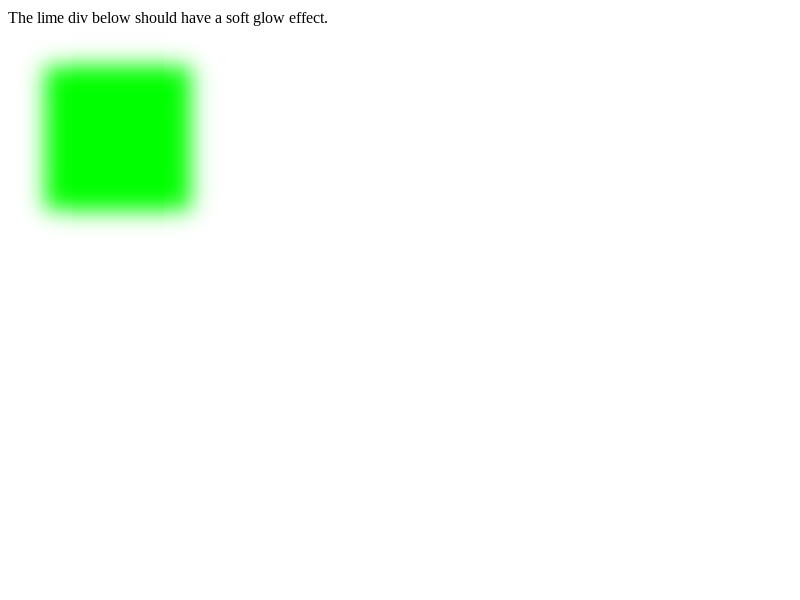
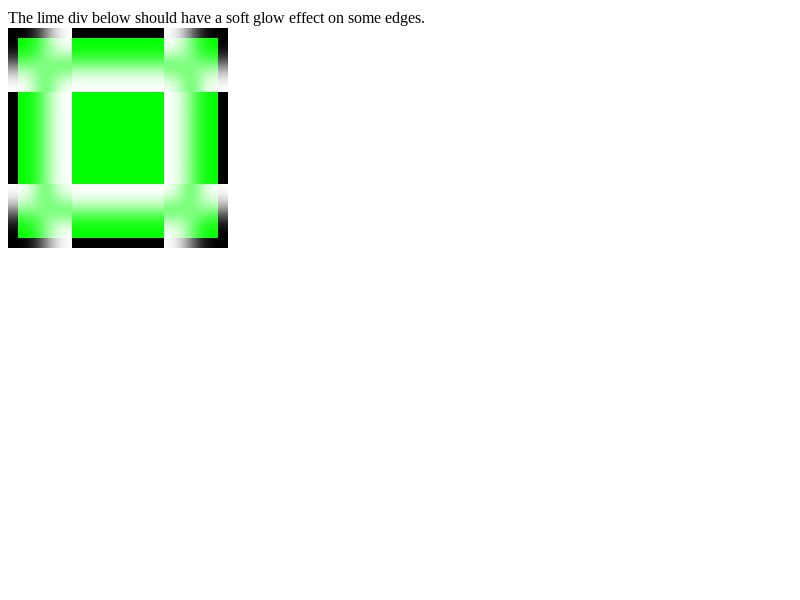
Keep mask bounds expanded to edges of div to fully mask dest_rect.
Mask execution closely follows background execution, which results in the
size of the mask being reduced to the exact size requested, rather than
filling out the dest_rect in BackgroundImageGeography::SetNoRepeatX and
::SetNoRepeatY. This CL puts the mask in the correct location, then
when we are creating the shader in image.cc, if the mask doesn't fill
out the dest_rect, decal tilemode is used to fill the rest with
transparency, which allows the mask to fill the full area.

Regarding the change to the fast/backgrounds/mask-composite.html test:
This change results in the original test failing, displaying the same
thing that it displays when using source-out. Based on my understanding
of how the 'copy' Porter-Duff keyword works, I believe this is correct
and that the test previously had an incorrect baseline because of this
bug. My understanding is that, if mask-composite is 'copy', then regardless
of the number of masks, only the first one will be displayed. The PD
definition of copy is that only the source mask is displayed, and since
this would be applied starting from the last two masks listed, moving up
to the first two, the end result is that only the first mask is displayed.
And, since this matches what happens when mask-composite:source-out is
used (and matches Edge and Firefox using 'subtract'), I just changed it
to a likely more commonly used keyword.

Bug: 917067
Commit-Queue: Mario Bianucci <mabian@microsoft.com>
[…]

Changed region(s): [[0.0, 0.03, 0.3125, 0.42], [0.4062, 0.0, 0.5312, 0.06]]

diff --git a/blink/web_tests/css3/masking/mask-not-clipped.html b/blink/web_tests/css3/masking/mask-not-clipped.html
@@ -1,0 +1,37 @@
+<!DOCTYPE html>
+<style>
+#mask {
+  width: 200px;
+  height: 200px;
+  background-color: red;
+  -webkit-mask-image: linear-gradient(black, black), linear-gradient(90deg, black, black);
+  -webkit-mask-size: 50% 100%, 100% 50%;
+  -webkit-mask-repeat: no-repeat;
+}
+#cover {
+  width: 100px;
+  height: 100px;
+  background-color: green;
+  position: absolute;
+  left: 0;
+  top: 0;
+}
+div {
+  display: inline-block;
+}
+</style>
+<p>There should be 2 green squares and a green rectangle below and no red.</p>
+<div style="position: absolute">
+  <div>
+    <div id="mask" style="-webkit-mask-composite: source-in;"></div>
+    <div id="cover"></div>
+  </div>
+  <div>
+    <div id="mask" style="-webkit-mask-composite: source-out;"></div>
+    <div id="cover" style="left: 204px;top:100px;"></div>
+  </div>
+  <div>
+    <div id="mask" style="-webkit-mask-composite: source-out; -webkit-mask-size: 50px; -webkit-mask-position: bottom right, top left;"></div>
+    <div id="cover" style="left: 558px; top:0px; height: 200px; width: 50px;"></div>
+  </div>
+</div>

diff --git a/blink/web_tests/fast/backgrounds/mask-composite.html b/blink/web_tests/fast/backgrounds/mask-composite.html
@@ -9,11 +9,11 @@
         -webkit-mask-position: top left, top right, bottom left, bottom right, top center, center right, bottom center, center left, center;
         -webkit-mask-origin: border;
         -webkit-mask-repeat: no-repeat, no-repeat, no-repeat, no-repeat, repeat-x, repeat-y, repeat-x, repeat-y, repeat;
-        -webkit-mask-composite: copy;
+        -webkit-mask-composite: xor;
 }
 
 </style>
 
-The lime div below should have a soft glow effect.
+The lime div below should have a soft glow effect on some edges.
 
 <div class="test"></div>

diff --git a/blink/web_tests/css3/masking/mask-not-clipped-expected.html b/blink/web_tests/css3/masking/mask-not-clipped-expected.html
@@ -1,0 +1,20 @@
+<!DOCTYPE html>
+<style>
+#cover {
+  width: 100px;
+  height: 100px;
+  background-color: green;
+  position: absolute;
+  left: 0;
+  top: 0;
+}
+div {
+  display: inline-block;
+}
+</style>
+<p>There should be 2 green squares and a green rectangle below and no red.</p>
+<div style="position: absolute">
+    <div id="cover"></div>
+    <div id="cover" style="left: 204px; top: 100px;"></div>
+    <div id="cover" style="left: 558px; top: 0px; height: 200px; width: 50px;"></div>
+</div>

diff --git a/blink/renderer/core/paint/background_image_geometry.cc b/blink/renderer/core/paint/background_image_geometry.cc
@@ -83,8 +83,26 @@ IntPoint AccumulatedScrollOffsetForFixedBackground(
 
 }  // anonymous namespace
 
-void BackgroundImageGeometry::SetNoRepeatX(LayoutUnit x_offset,
+bool NeedsFullSizeDestination(const FillLayer& fill_layer) {
+  // When dealing with a mask, the dest rect needs to maintain the full size
+  // and the mask should be expanded to fill it out. This allows the mask to
+  // correctly mask the entire area it is meant to. This is unnecessary on the
+  // last layer, so the normal background path is taken for efficiency when
+  // creating the paint shader later on.
+  return fill_layer.GetType() == EFillLayerType::kMask && fill_layer.Next() &&
+         fill_layer.Composite() != kCompositeSourceOver;
+}
+
+void BackgroundImageGeometry::SetNoRepeatX(const FillLayer& fill_layer,
+                                           LayoutUnit x_offset,
                                            LayoutUnit snapped_x_offset) {
+  if (NeedsFullSizeDestination(fill_layer)) {
+    SetPhaseX(-x_offset.ToFloat());
+    SetSpaceSize(
+        LayoutSize(unsnapped_dest_rect_.Width(), SpaceSize().Height()));
+    return;
+  }
+
   // The snapped offset may not yet be snapped, so make sure it is an integer.
   snapped_x_offset = LayoutUnit(RoundToInt(snapped_x_offset));
 
@@ -120,8 +138,16 @@ void BackgroundImageGeometry::SetNoRepeatX(LayoutUnit x_offset,
   SetSpaceSize(LayoutSize(LayoutUnit(), SpaceSize().Height()));
 }
 
-void BackgroundImageGeometry::SetNoRepeatY(LayoutUnit y_offset,
+void BackgroundImageGeometry::SetNoRepeatY(const FillLayer& fill_layer,
+                                           LayoutUnit y_offset,
                                            LayoutUnit snapped_y_offset) {
+  if (NeedsFullSizeDestination(fill_layer)) {
+    SetPhaseY(-y_offset.ToFloat());
+    SetSpaceSize(
+        LayoutSize(SpaceSize().Width(), unsnapped_dest_rect_.Height()));
+    return;
+  }
+
   // The snapped offset may not yet be snapped, so make sure it is an integer.
   snapped_y_offset = LayoutUnit(RoundToInt(snapped_y_offset));
 
@@ -978,7 +1004,7 @@ void BackgroundImageGeometry::Calculate(const LayoutBoxModelObject* container,
         fill_layer.BackgroundXOrigin() == BackgroundEdgeOrigin::kRight
             ? snapped_available_width - computed_x_position
             : computed_x_position;
-    SetNoRepeatX(unsnapped_box_offset.X() + x_offset,
+    SetNoRepeatX(fill_layer, unsnapped_box_offset.X() + x_offset,
                  snapped_box_offset.X() + snapped_x_offset);
     if (offset_in_background_.X() > tile_size_.Width())
       unsnapped_dest_rect_ = snapped_dest_rect_ = LayoutRect();
@@ -1009,7 +1035,7 @@ void BackgroundImageGeometry::Calculate(const LayoutBoxModelObject* container,
         fill_layer.BackgroundYOrigin() == BackgroundEdgeOrigin::kBottom
             ? snapped_available_height - computed_y_position
             : computed_y_position;
-    SetNoRepeatY(unsnapped_box_offset.Y() + y_offset,
+    SetNoRepeatY(fill_layer, unsnapped_box_offset.Y() + y_offset,
                  snapped_box_offset.Y() + snapped_y_offset);
     if (offset_in_background_.Y() > tile_size_.Height())
       unsnapped_dest_rect_ = snapped_dest_rect_ = LayoutRect();

diff --git a/blink/renderer/core/paint/background_image_geometry.h b/blink/renderer/core/paint/background_image_geometry.h
@@ -97,8 +97,12 @@ class BackgroundImageGeometry {
   void SetPhaseX(float x) { phase_.SetX(x); }
   void SetPhaseY(float y) { phase_.SetY(y); }
 
-  void SetNoRepeatX(LayoutUnit x_offset, LayoutUnit snapped_x_offset);
-  void SetNoRepeatY(LayoutUnit y_offset, LayoutUnit snapped_y_offset);
+  void SetNoRepeatX(const FillLayer&,
+                    LayoutUnit x_offset,
+                    LayoutUnit snapped_x_offset);
+  void SetNoRepeatY(const FillLayer&,
+                    LayoutUnit y_offset,
+                    LayoutUnit snapped_y_offset);
   void SetRepeatX(const FillLayer&,
                   LayoutUnit available_width,
                   LayoutUnit extra_offset);
